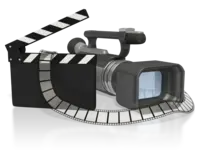
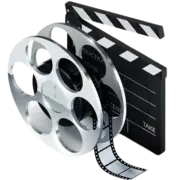
Menu app

diff --git a/src/pages/home/header/AppsMenu.js b/src/pages/home/header/AppsMenu.js
@@ -42,12 +42,6 @@ export default function AppsMenu ({anchorEl, onClose}) {
             }}
         >
           <CardContent component="div">
-            <Typography
-                variant="h6"
-                paragraph
-                fontSize={15}
-                fontWeight="bold"
-            >Applications</Typography>
             <Grid container spacing={1} component="div" >
                 {appsList.map((app, index) => 
                     checkAuth(auth, app.permissions) && 
@@ -59,18 +53,38 @@ export default function AppsMenu ({anchorEl, onClose}) {
                         justifyContent="center" 
                         key={index}
                         component="div"
+                        position="relative" 
+                        height={90}
                     >
                         <CardActionArea
-                            sx={{borderRadius: 2}}
+                            sx={{borderRadius: 1, position: 'absolute'}}
                             LinkComponent={app.component || "a"}
                             href={app.href}
+                            title={app.name}
                         >
                             <Stack
                                 display="flex"
-                                m={1}
+                                m={.25}
                                 alignItems="center"
-                                spacing={.5}
+                                spacing={.2}
                                 component="div"
+                                sx={{
+                                    "& .app-name": {
+                                        whiteSpace: 'nowrap',
+                                        overflow: 'hidden',
+                                        textOverflow: 'ellipsis',
+                                        width: 60
+                                    },
+                                    "&: hover": {
+                                        zIndex: theme => theme.zIndex.tooltip,
+                                        "& .app-name": {
+                                            whiteSpace: 'normal',
+                                            overflow: 'visible',
+                                            textOverflow: 'clip',
+                                            width: 'auto'
+                                        }
+                                    }
+                                }}
                             >
                                 
                                     <CardMedia
@@ -79,13 +93,14 @@ export default function AppsMenu ({anchorEl, onClose}) {
                                             srcSet={app.src}
                                             draggable={false}
                                             sx={{
-                                                height: 50,
-                                                width: 50,
+                                                height: 60,
+                                                width: 60,
                                             }}
                                     />
                                     <Typography
                                         align="center"
                                         variant="caption"
+                                        className='app-name'
                                     >{app.name}</Typography> 
                             </Stack>
                         </CardActionArea>

diff --git a/src/pages/home/header/appsList.js b/src/pages/home/header/appsList.js
@@ -1,4 +1,4 @@
-import _archives_logo from '../../../assets/archives_workbooks.webp';
+import _archives_logo from '../../../assets/crdoy0js-removebg-preview.webp';
 import _media_logo from '../../../assets/5a229b479641b7.26338722151221741.webp';
 //import _arcives_server_logo from '../../../assets/kisspng-paper-drawer-archive-rin.webp';
 // import _checklist_logo from '../../../assets/kisspng-hand-stop-sign-symbol-cl.webp';
